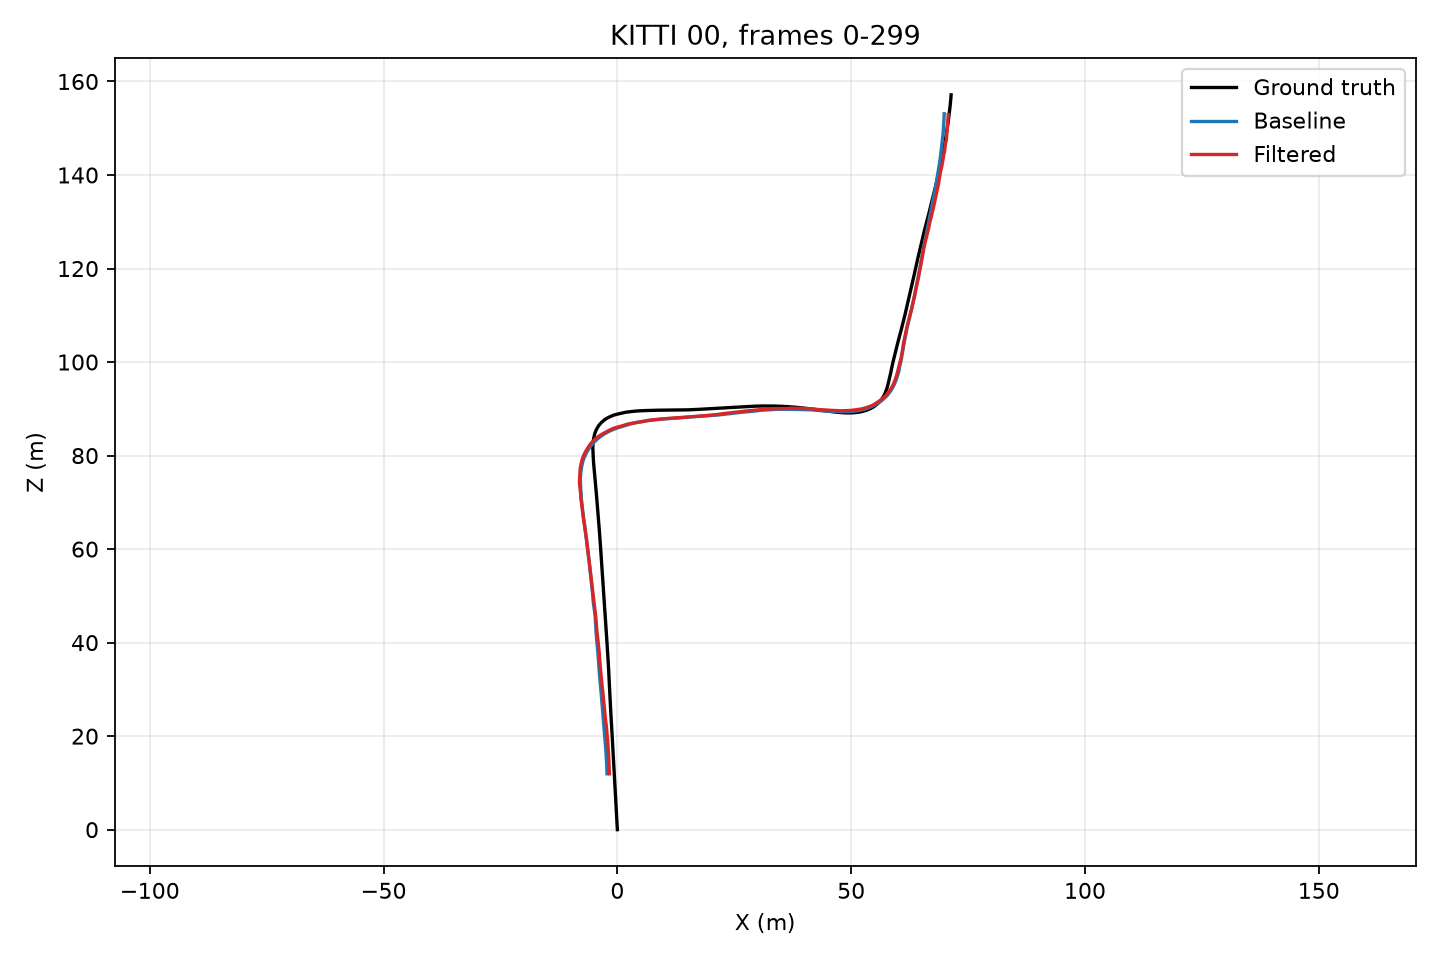
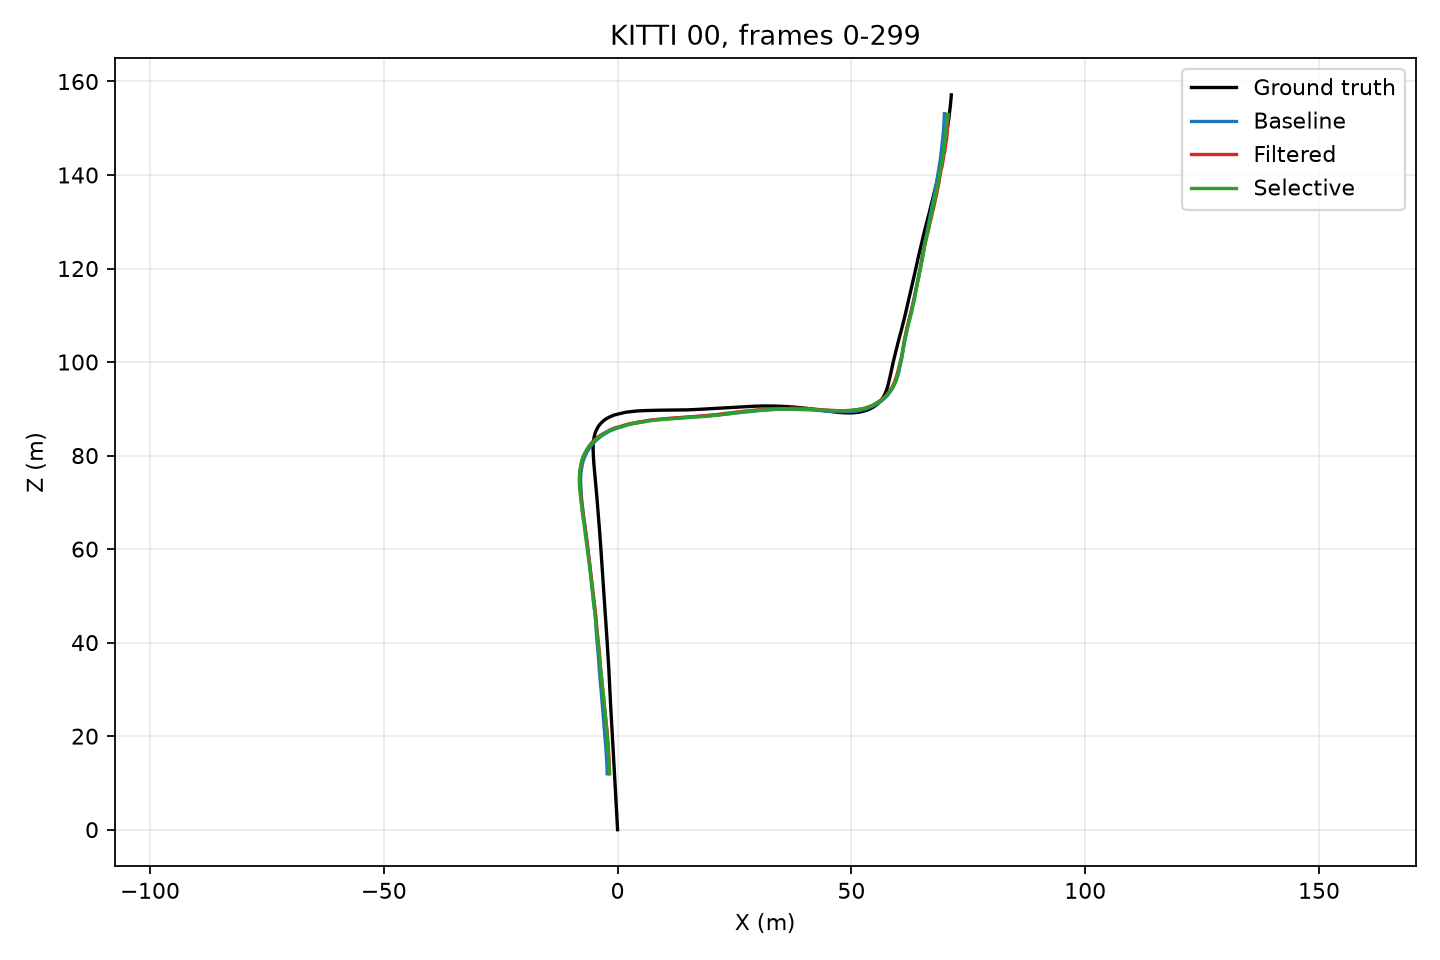
Analyze low-parallax failures and compare selective filtering

diff --git a/src/rvo/vo.py b/src/rvo/vo.py
@@ -68,6 +68,45 @@ def outside_boxes(points: np.ndarray, boxes: np.ndarray, padding: int) -> np.nda
     return keep
 
 
+def selective_keep(before: np.ndarray, after: np.ndarray, previous_boxes: np.ndarray,
+                   current_boxes: np.ndarray, padding: int, image_shape: tuple[int, int],
+                   settings: dict) -> tuple[np.ndarray, int, bool]:
+    """Reject a detected box only when its median flow differs from background."""
+    hard_keep = outside_boxes(before, previous_boxes, padding)
+    hard_keep &= outside_boxes(after, current_boxes, padding)
+    flow = after - before
+    background_points = flow[hard_keep] if np.count_nonzero(hard_keep) >= 50 else flow
+    if len(background_points) == 0:
+        return np.ones(len(before), dtype=bool), 0, True
+    background_flow = np.median(background_points, axis=0)
+    keep = np.ones(len(before), dtype=bool)
+    active_boxes = 0
+    for points, boxes in ((before, previous_boxes), (after, current_boxes)):
+        for left, top, right, bottom in boxes:
+            inside = ((points[:, 0] >= left - padding) & (points[:, 0] <= right + padding)
+                      & (points[:, 1] >= top - padding) & (points[:, 1] <= bottom + padding))
+            if np.count_nonzero(inside) < int(settings["min_box_tracks"]):
+                continue
+            difference = float(np.linalg.norm(np.median(flow[inside], axis=0) - background_flow))
+            if difference >= float(settings["flow_difference_px"]):
+                keep &= ~inside
+                active_boxes += 1
+    height, width = image_shape
+    selected = before[keep]
+    if len(selected):
+        columns = np.clip((selected[:, 0] * int(settings["grid_cols"]) / width).astype(int),
+                          0, int(settings["grid_cols"]) - 1)
+        rows = np.clip((selected[:, 1] * int(settings["grid_rows"]) / height).astype(int),
+                       0, int(settings["grid_rows"]) - 1)
+        occupied = len(np.unique(rows * int(settings["grid_cols"]) + columns))
+    else:
+        occupied = 0
+    fallback = len(selected) < int(settings["min_features"]) or occupied < int(settings["min_occupied_cells"])
+    if fallback:
+        keep[:] = True
+    return keep, active_boxes, fallback
+
+
 def estimate_step(before: np.ndarray, after: np.ndarray, K: np.ndarray,
                   prior_pose: np.ndarray, settings: dict) -> Step:
     start = perf_counter()
@@ -132,7 +171,8 @@ def run_window(root: Path, sequence: str, start_frame: int, frame_count: int,
     # Exclude model loading and the first CUDA warmup from measured frame times.
     model.predict(previous_color, device=0, conf=confidence, verbose=False)
     previous_boxes, previous_detection_ms = detect_boxes(model, previous_color, classes, confidence)
-    poses = {mode: [np.eye(4, dtype=np.float64)] for mode in ("baseline", "filtered")}
+    poses = {mode: [np.eye(4, dtype=np.float64)]
+             for mode in ("baseline", "filtered", "selective")}
     valid = {mode: [True] for mode in poses}
     records: list[dict] = []
 
@@ -156,24 +196,46 @@ def run_window(root: Path, sequence: str, start_frame: int, frame_count: int,
         keep &= outside_boxes(after, current_boxes, padding)
         filtering_ms = (perf_counter() - filtering_start) * 1000
         filtered_count = int(np.count_nonzero(~keep))
+        selective_start = perf_counter()
+        selective_mask, active_boxes, coverage_fallback = selective_keep(
+            before, after, previous_boxes, current_boxes, padding, current_gray.shape,
+            config["selective"]
+        )
+        selective_ms = (perf_counter() - selective_start) * 1000
+        selected_flow = np.linalg.norm(after[selective_mask] - before[selective_mask], axis=1)
+        median_selected_flow = float(np.median(selected_flow)) if len(selected_flow) else float("inf")
 
         for mode in poses:
-            points_before, points_after = (before, after) if mode == "baseline" else (before[keep], after[keep])
+            mask = {"baseline": None, "filtered": keep, "selective": selective_mask}[mode]
+            points_before, points_after = (before, after) if mask is None else (before[mask], after[mask])
             step = estimate_step(points_before, points_after, K, poses[mode][-1], config["geometry"])
+            inlier_ratio = step.ransac_inliers / step.submitted if step.submitted else 0.0
+            low_motion_degeneracy = (
+                mode == "selective" and not step.valid
+                and inlier_ratio >= float(config["diagnostics"]["min_ransac_inlier_ratio"])
+                and median_selected_flow <= float(config["diagnostics"]["low_flow_px"])
+            )
             poses[mode].append(step.pose)
             valid[mode].append(step.valid)
             total_ms = read_ms + tracking_ms + step.geometry_ms
             if mode == "filtered":
                 total_ms += detection_ms + filtering_ms
+            elif mode == "selective":
+                total_ms += detection_ms + selective_ms
             records.append({
                 "sequence": sequence, "frame": int(path.stem), "mode": mode,
                 "corners": corner_count, "tracked": len(before),
-                "removed": filtered_count if mode == "filtered" else 0,
+                "removed": 0 if mask is None else int(np.count_nonzero(~mask)),
+                "active_boxes": active_boxes if mode == "selective" else 0,
+                "coverage_fallback": int(coverage_fallback) if mode == "selective" else 0,
+                "median_selected_flow_px": median_selected_flow if mode == "selective" else 0.0,
+                "low_motion_degeneracy": int(low_motion_degeneracy),
                 "submitted": step.submitted, "ransac_inliers": step.ransac_inliers,
                 "pose_inliers": step.pose_inliers, "valid": int(step.valid),
                 "read_ms": read_ms, "tracking_ms": tracking_ms,
-                "detection_ms": detection_ms if mode == "filtered" else 0.0,
-                "filtering_ms": filtering_ms if mode == "filtered" else 0.0,
+                "detection_ms": detection_ms if mode != "baseline" else 0.0,
+                "filtering_ms": (filtering_ms if mode == "filtered" else
+                                 selective_ms if mode == "selective" else 0.0),
                 "geometry_ms": step.geometry_ms, "total_ms": total_ms,
             })
         previous_gray, previous_boxes = current_gray, current_boxes

diff --git a/scripts/diagnose_motion.py b/scripts/diagnose_motion.py
@@ -1,0 +1,53 @@
+"""Inspect feature flow and ground truth displacement at selected VO frames."""
+
+from __future__ import annotations
+
+import argparse
+from pathlib import Path
+import tomllib
+
+import cv2
+import numpy as np
+from ultralytics import YOLO
+
+from rvo.kitti import ground_truth_poses
+from rvo.vo import detect_and_track, detect_boxes, outside_boxes
+
+
+def main() -> None:
+    parser = argparse.ArgumentParser(description=__doc__)
+    parser.add_argument("--config", type=Path, default=Path("configs/kitti_mvp.toml"))
+    parser.add_argument("--sequence", default="07")
+    parser.add_argument("--frames", nargs="+", type=int,
+                        default=[642, 650, 660, 680, 700, 720, 740, 800])
+    args = parser.parse_args()
+    config = tomllib.loads(args.config.read_text(encoding="utf-8"))
+    root = Path(config["dataset"]["root"])
+    image_dir = root / "sequences" / args.sequence / config["dataset"]["camera"]
+    model = YOLO(config["filter"]["model"])
+    classes = set(config["filter"]["classes"])
+    confidence = float(config["filter"]["confidence"])
+    padding = int(config["filter"]["box_padding_px"])
+    ground_truth = ground_truth_poses(root, args.sequence)
+    print("frame kept median_flow_px ground_truth_step_m")
+    for frame in args.frames:
+        previous = cv2.imread(str(image_dir / f"{frame - 1:06d}.png"))
+        current = cv2.imread(str(image_dir / f"{frame:06d}.png"))
+        if previous is None or current is None:
+            raise FileNotFoundError(f"Missing frame pair ending at {frame}")
+        before, after, _ = detect_and_track(
+            cv2.cvtColor(previous, cv2.COLOR_BGR2GRAY),
+            cv2.cvtColor(current, cv2.COLOR_BGR2GRAY), config["features"]
+        )
+        previous_boxes, _ = detect_boxes(model, previous, classes, confidence)
+        current_boxes, _ = detect_boxes(model, current, classes, confidence)
+        keep = outside_boxes(before, previous_boxes, padding)
+        keep &= outside_boxes(after, current_boxes, padding)
+        flow = np.linalg.norm(after[keep] - before[keep], axis=1)
+        median_flow = float(np.median(flow)) if len(flow) else float("nan")
+        gt_step = np.linalg.norm(ground_truth[frame, :3, 3] - ground_truth[frame - 1, :3, 3])
+        print(f"{frame} {int(keep.sum())} {median_flow:.3f} {gt_step:.3f}")
+
+
+if __name__ == "__main__":
+    main()

diff --git a/src/rvo/evaluation.py b/src/rvo/evaluation.py
@@ -43,6 +43,9 @@ def metrics(estimate: np.ndarray, reference: np.ndarray, valid: np.ndarray,
         raise ValueError("Common evaluation mask includes an invalid pose")
     aligned, scale = align_sim3(estimate, reference, common_valid)
     position_errors = np.linalg.norm(aligned[common_valid, :3, 3] - reference[common_valid, :3, 3], axis=1)
+    all_mask = np.ones(len(estimate), dtype=bool)
+    all_aligned, _ = align_sim3(estimate, reference, all_mask)
+    all_position_errors = np.linalg.norm(all_aligned[:, :3, 3] - reference[:, :3, 3], axis=1)
     translation_errors, rotation_errors = [], []
     for first in range(len(estimate) - interval):
         second = first + interval
@@ -64,6 +67,7 @@ def metrics(estimate: np.ndarray, reference: np.ndarray, valid: np.ndarray,
     detection_ms = np.array([row["detection_ms"] for row in records])
     output = {
         "ate_rmse_m": float(np.sqrt(np.mean(position_errors**2))),
+        "ate_all_frames_rmse_m": float(np.sqrt(np.mean(all_position_errors**2))),
         "rpe_interval_frames": interval,
         "rpe_pairs": len(translation_errors),
         "rpe_translation_mean_m": float(np.mean(translation_errors)) if translation_errors else None,
@@ -71,6 +75,7 @@ def metrics(estimate: np.ndarray, reference: np.ndarray, valid: np.ndarray,
         "sim3_scale": scale,
         "sim3_aligned_common_poses": int(np.count_nonzero(common_valid)),
         "pose_failures": int(np.count_nonzero(~valid[1:])),
+        "low_motion_degeneracy_frames": sum(row["low_motion_degeneracy"] for row in records),
         "pose_attempts": len(valid) - 1,
         "tracking_failure_rate": float(np.mean(~valid[1:])),
         "feature_inlier_ratio": inliers / submitted if submitted else None,

diff --git a/src/rvo/run.py b/src/rvo/run.py
@@ -26,7 +26,7 @@ def save_plot(path: Path, reference: np.ndarray, aligned: dict[str, np.ndarray],
               valid: dict[str, np.ndarray], title: str) -> None:
     figure, axis = plt.subplots(figsize=(9, 6))
     axis.plot(reference[:, 0, 3], reference[:, 2, 3], label="Ground truth", color="black")
-    colors = {"baseline": "#1f77b4", "filtered": "#d62728"}
+    colors = {"baseline": "#1f77b4", "filtered": "#d62728", "selective": "#2ca02c"}
     for mode, poses in aligned.items():
         axis.plot(poses[:, 0, 3], poses[:, 2, 3], label=mode.title(), color=colors[mode])
         failures = ~valid[mode]
@@ -70,9 +70,10 @@ def main() -> None:
             raise ValueError(f"Missing ground truth for sequence {sequence}")
         summary = {"sequence": sequence, "start_frame": start, "frame_count": count,
                    "camera": config["dataset"]["camera"], "detector": config["filter"]["model"],
-                   "metrics": {}}
+                   "selective_settings": config["selective"],
+                   "diagnostic_settings": config["diagnostics"], "metrics": {}}
         aligned = {}
-        common_valid = valid["baseline"] & valid["filtered"]
+        common_valid = np.logical_and.reduce(list(valid.values()))
         summary["common_valid_poses"] = int(np.count_nonzero(common_valid))
         for mode in poses:
             mode_records = [row for row in records if row["mode"] == mode]

diff --git a/docs/initial_results.md b/docs/initial_results.md
@@ -1,24 +1,33 @@
-# Initial paired VO results
+# Initial VO results and failure analysis
 
-Run: `python -m rvo.run` with `configs/kitti_mvp.toml`, KITTI left color camera, YOLO11n, NVIDIA GeForce RTX 4070 Ti. These are development windows, not a broad KITTI benchmark. ATE uses one Sim(3) fit per variant on the same poses valid in both variants. RPE uses 10-frame intervals with valid endpoints in both variants. Each window has 300 frames and 299 pose attempts.
+Run: `python -m rvo.run` with `configs/kitti_mvp.toml`, KITTI left color camera, YOLO11n, NVIDIA GeForce RTX 4070 Ti. These are exploratory windows, not a broad KITTI benchmark. ATE uses one Sim(3) fit per variant on poses valid in all three variants. All-frame ATE uses every frame, including the carried pose at a failed estimate. RPE uses 10-frame intervals with endpoints valid in all variants.
 
-| Sequence / frames | Method | ATE RMSE (m) | 10-frame RPE translation (m) | 10-frame RPE rotation (deg) | Pose failures | Inlier ratio | Mean time (ms/frame) |
-| --- | --- | ---: | ---: | ---: | ---: | ---: | ---: |
-| 00 / 0-299 | Baseline | 5.16 | 1.75 | 0.302 | 0 | 0.870 | 41.3 |
-| 00 / 0-299 | YOLO filtered | 5.11 | 1.76 | 0.340 | 0 | 0.877 | 53.0 |
-| 07 / 600-899 | Baseline | 7.94 | 1.94 | 0.339 | 32 | 0.841 | 43.2 |
-| 07 / 600-899 | YOLO filtered | 6.92 | 1.94 | 0.348 | 91 | 0.891 | 55.9 |
+| Sequence / frames | Method | Common-pose ATE (m) | All-frame ATE (m) | Pose failures | Mean time (ms/frame) |
+| --- | --- | ---: | ---: | ---: | ---: |
+| 00 / 0-299 | Baseline | 5.16 | 5.16 | 0 / 299 | 46.6 |
+| 00 / 0-299 | Hard boxes | 5.11 | 5.11 | 0 / 299 | 60.8 |
+| 00 / 0-299 | Selective flow gate | 5.14 | 5.14 | 0 / 299 | 61.5 |
+| 07 / 600-899 | Baseline | 7.80 | 8.29 | 32 / 299 | 50.1 |
+| 07 / 600-899 | Hard boxes | 6.97 | 5.93 | 91 / 299 | 64.7 |
+| 07 / 600-899 | Selective flow gate | 7.28 | 6.16 | 84 / 299 | 65.7 |
+| 07 / 800-899 | Baseline | 1.99 | 1.99 | 0 / 99 | 50.6 |
+| 07 / 800-899 | Hard boxes | 1.99 | 1.99 | 0 / 99 | 64.2 |
+| 07 / 800-899 | Selective flow gate | 2.00 | 2.00 | 0 / 99 | 65.0 |
 
-The sequence 07 ATE comparison uses 208 common valid poses. Filtering removes about 300 of 1,388 tracked features per frame on average. All 91 filtered pose failures in this run occurred after essential-matrix estimation when `recoverPose` returned fewer than the configured eight valid pose inliers. This may indicate insufficient usable parallax or another geometric degeneracy; the current run does not establish the cause. Filtering has a clear reliability cost here despite the lower ATE on common valid poses. The near-equal RPE values also limit any accuracy claim.
+The 600-899 ATE comparison uses 204 poses valid in all variants; the other windows use every pose. The selective filter removes about 263 of 1,388 tracked features per frame in that window, compared with about 300 for hard boxes. It reduces failures from 91 to 84, a modest change. Its spatial-coverage fallback did not trigger in any of the three windows. Sixty of its failures meet the low-flow degeneracy rule (`median retained flow <= 4 px` and RANSAC inlier ratio `>= 0.8`). Those frames remain **failures**, with the last pose carried only for plotting and all-frame ATE.
 
-The time metric includes frame read, Shi-Tomasi/Lucas-Kanade tracking, geometry, and YOLO detection plus filtering for the filtered variant. It excludes model loading and CUDA warmup. Repeated timing runs and more scene windows are needed before drawing a speed conclusion.
+The main failure cluster occurs around frames 643-738. The median ground-truth step in the 640-740 interval is about 0.009 m, while many failed filtered frames still have hundreds of RANSAC inliers and fewer than eight `recoverPose` inliers. This supports a near-stationary/low-parallax explanation. Ground truth was used for this diagnosis and evaluation only, never for pose estimation. Calling the carried pose a new successful estimate would not change the trajectory, so the runner does not do that.
+
+On the moving-camera slice, frames 800-899, all three methods complete every pair and their ATE is effectively equal. These windows do not yet show a consistent accuracy benefit from object filtering. The filter adds roughly 14-15 ms per frame in this run. Timing includes frame read, Shi-Tomasi/Lucas-Kanade tracking, geometry, and YOLO inference plus filtering where applicable; model loading and CUDA warmup are excluded.
 
 ## Visuals
 
 ![Sequence 00 aligned trajectories](figures/seq00_trajectory.png)
 
-![Sequence 07 aligned trajectories](figures/seq07_trajectory.png)
+![Sequence 07 aligned trajectories, including the near-stop](figures/seq07_trajectory.png)
 
-Yellow boxes mark potentially moving objects; red points are removed from the pose estimate. The white van crosses the camera view in sequence 07 frame 650.
+![Sequence 07 moving-camera slice](figures/seq07_800_trajectory.png)
+
+Yellow boxes mark potentially moving objects; red points are removed by hard filtering. The white van crosses the camera view in sequence 07 frame 650.
 
 ![Sequence 07 tracked feature filtering](figures/seq07_000650_tracks.jpg)

diff --git a/docs/experiment_protocol.md b/docs/experiment_protocol.md
@@ -3,21 +3,22 @@
 ## Data and variants
 
 - Use KITTI odometry training sequences with left color frames (`image_2`), matching `P2` calibration, and poses at the same integer frame indices.
-- Record the exact sequence and contiguous frame range for every run. Initial comparison: sequence 00 frames 0-299 (quieter residential streets) and sequence 07 frames 600-899 (crossing traffic near an intersection). Revisit these labels after inspecting the entire windows.
-- Run the same Shi-Tomasi, Lucas-Kanade, essential-matrix RANSAC, and `recoverPose` settings in both variants. Fix random seeds where supported.
-- Baseline: keep all valid tracked features. Filtered: discard a track if either endpoint falls within a padded YOLO box of a configured potentially moving class. A class label marks *potential* motion; parked cars may be wrongly discarded.
+- Record the exact sequence and contiguous frame range for every run. Initial comparison: sequence 00 frames 0-299 (quieter residential streets), sequence 07 frames 600-899 (crossing traffic and a near-stop), and a moving-camera slice of sequence 07 frames 800-899.
+- Run the same Shi-Tomasi, Lucas-Kanade, essential-matrix RANSAC, and `recoverPose` settings in all variants. Fix random seeds where supported.
+- Baseline: keep all valid tracked features. Filtered: discard a track if either endpoint falls within a padded YOLO box of a configured potentially moving class. Selective: reject a box only if median tracked flow inside it differs from background flow by at least the configured threshold. If the retained tracks do not meet count and image-grid coverage thresholds, use all tracks for that frame. A class label marks *potential* motion; parked cars may be wrongly discarded by the hard filter, while flow gating is only a heuristic for object motion.
 - Do not use ground truth poses, frame-to-frame ground truth distance, or detection labels to estimate camera motion.
 
 ## Per-frame record
 
-Save frame index, estimated 4x4 pose, number of detected corners, number of tracked features, number filtered, number passed to RANSAC, number of RANSAC inliers, whether pose estimation succeeded, and timing for image read, detection, tracking, geometry, and total processing. For failure frames, record a failure and retain the last valid pose for trajectory plotting; do not count that retained pose as a successful estimate.
+Save frame index, estimated 4x4 pose, number of detected corners, number of tracked features, number filtered, number passed to RANSAC, number of RANSAC inliers, whether pose estimation succeeded, a low-motion degeneracy flag, and timing for image read, detection, tracking, geometry, and total processing. For failure frames, record a failure and retain the last valid pose for trajectory plotting; do not count that retained pose as a successful estimate. The degeneracy flag is diagnostic and does not turn a failure into a success.
 
 ## Metrics
 
-- **ATE:** root mean squared translation distance after a *single* Sim(3) alignment per estimated trajectory against ground truth. Fit and evaluate both variants on the same frames where both produced valid poses. Report that common frame count and each variant's failures separately.
-- **RPE:** relative rotation and translation error over fixed frame intervals after the same sequence-level scale alignment. Use only pairs whose endpoints were valid in both variants.
+- **ATE:** root mean squared translation distance after a *single* Sim(3) alignment per estimated trajectory against ground truth. Fit and evaluate all variants on the same frames where every variant produced a valid pose. Report that common frame count and each variant's failures separately.
+- **All-frame ATE:** fit one Sim(3) alignment on every frame, including carried poses at failures. This operational measure uses the same frame set for all variants.
+- **RPE:** relative rotation and translation error over fixed frame intervals after the same sequence-level scale alignment. Use only pairs whose endpoints were valid in all variants.
 - **Inlier ratio:** RANSAC inliers divided by correspondences submitted to RANSAC, aggregated with numerator and denominator totals.
 - **Tracking failure rate:** failed pose-estimation frames divided by attempted frame pairs.
 - **Processing time:** mean and median milliseconds per frame, including YOLO inference in the filtered run. Report GPU model and detector weights.
 
-Compare the paired variants on identical frames. Inspect annotated examples where filtering helps and hurts. Keep the original trajectory and metric files under `outputs/` so reported numbers can be reproduced.
+Compare all variants on identical frames and use the common valid frame set for ATE and RPE. Inspect annotated examples where filtering helps and hurts. Keep the original trajectory and metric files under `outputs/` so reported numbers can be reproduced.

diff --git a/README.md b/README.md
@@ -1,6 +1,6 @@
 # Robust Visual Odometry Under Dynamic Objects
 
-Compare monocular feature-based visual odometry with and without YOLO filtering of features on potentially moving objects. The first experiment uses a quieter window from KITTI odometry sequence 00 and a window with crossing traffic from sequence 07, left color camera (`image_2`), matching calibration, and ground truth poses.
+Compare monocular feature-based visual odometry using a baseline, hard YOLO box filtering, and selective flow-gated filtering. The experiment uses a quieter window from KITTI odometry sequence 00 and traffic windows from sequence 07, left color camera (`image_2`), matching calibration, and ground truth poses.
 
 ## Layout
 
@@ -22,7 +22,7 @@ The CUDA wheel command above is published by [PyTorch](https://pytorch.org/get-s
 
 ## KITTI data
 
-The official [KITTI odometry page](https://www.cvlibs.net/datasets/kitti/eval_odometry.php) describes the data and license. The downloader reads directly from KITTI's official S3 archives. It fetches only requested frames from the large color ZIP, plus the small calibration and pose ZIPs. The initial experiment uses frames 0-299 of sequence 00 and frames 600-899 of sequence 07.
+The official [KITTI odometry page](https://www.cvlibs.net/datasets/kitti/eval_odometry.php) describes the data and license. The downloader reads directly from KITTI's official S3 archives. It fetches only requested frames from the large color ZIP, plus the small calibration and pose ZIPs. The experiment uses frames 0-299 of sequence 00 and frames 600-899 of sequence 07, including a separate 800-899 analysis window.
 
 ```powershell
 .\.venv\Scripts\python.exe scripts\download_kitti.py --sequences 00 --frames 300
@@ -55,9 +55,9 @@ The 300-frame windows make iteration manageable. Additional local exploratory fr
 .\.venv\Scripts\python.exe -m rvo.run
 ```
 
-The runner uses the configured windows and writes per-frame records, estimated poses, metric summaries, and trajectory plots under `outputs/kitti_mvp/`. For a shorter development run, add `--limit 30`; for one sequence, add `--sequences 07`. Both variants use the same decoded frames and tracked correspondences before filtering.
+The runner uses the configured windows and writes per-frame records, estimated poses, metric summaries, and trajectory plots under `outputs/kitti_mvp/`. For a shorter development run, add `--limit 30`; for one sequence, add `--sequences 07`. All variants use the same decoded frames and tracked correspondences before filtering.
 
-The first paired run is summarized in `docs/initial_results.md` with trajectory plots and a feature-filtering example.
+The current results and failure analysis are summarized in `docs/initial_results.md` with trajectory plots and a feature-filtering example. To inspect flow and ground-truth motion at the failure frames, run `python scripts/diagnose_motion.py`; ground truth is used only for diagnosis and evaluation.
 
 To inspect which features are removed near crossing traffic:
 
